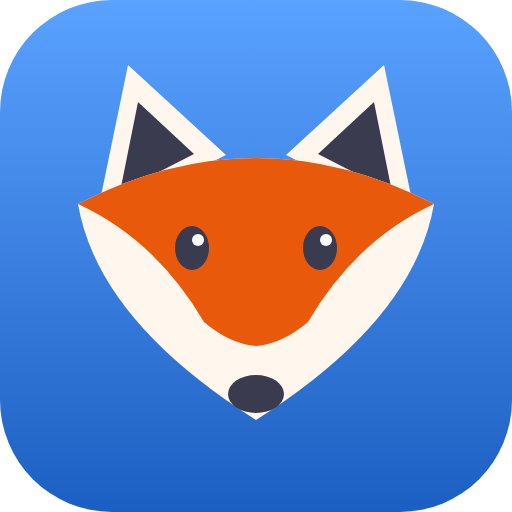
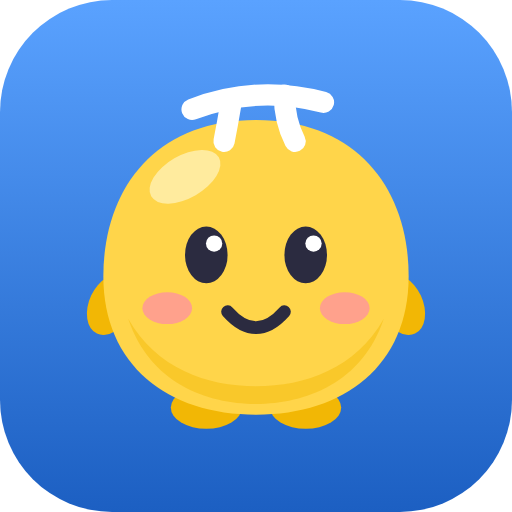
Nieuwe mascotte Pi in plaats van de vos
- Pi zelf getekend in SVG, met drie uitdrukkingen: blij, juichend, oei
- Pi reageert in de les op juiste en foute antwoorden en knippert
- App-icoon met Pi op blauwe achtergrond
- Versie 0.3.0, zodat de offline cache ververst

Claude-Session: https://claude.ai/code/session_01JKfSBsTbStSJGwwEaag5tf

diff --git a/js/app.js b/js/app.js
@@ -3,8 +3,9 @@ import * as store from './store.js';
 import { state } from './store.js';
 import * as E from './engine.js';
 import { sfx, unlockAudio } from './sound.js';
+import { mascot, piSvg } from './mascot.js';
 
-const VERSION = '0.2.0';
+const VERSION = '0.3.0';
 const BLITZ_SECONDS = 60;
 
 const app = document.getElementById('app');
@@ -47,9 +48,9 @@ function render() {
 function welcomeView() {
   return `
   <div class="welcome">
-    <div class="mascot huge bounce">🦊</div>
+    ${mascot('cheer', 'huge bounce')}
     <h1>Hoi Ma 'Nilla!</h1>
-    <p>Ik ben je rekenvos. Welkom bij Mathsapp! Elke dag een paar rondes van twee minuten en je tafels zitten er binnenkort ingebakken.</p>
+    <p>Ik ben Pi, je rekenmaatje. Welkom bij Mathsapp! Elke dag een paar rondes van twee minuten en je tafels zitten er binnenkort ingebakken.</p>
     <p class="muted">Ken je je tafels al een beetje? Doe dan de niveautest, dan sla je over wat je al kent.</p>
     <div class="stack">
       <button class="btn primary c-blue" data-action="welcome-start">Begin bij het begin</button>
@@ -63,7 +64,7 @@ function topbar() {
   const activeToday = state.lastDay === store.today();
   return `
   <header class="topbar">
-    <div class="brand"><span class="mascot">🦊</span><span>Mathsapp</span></div>
+    <div class="brand">${mascot()}<span>Mathsapp</span></div>
     <div class="top-stats">
       <span class="pill streak ${activeToday ? 'on' : ''}" title="Streak">🔥 ${streak}</span>
       <span class="pill xp" title="XP">⚡ ${state.xp}</span>
@@ -141,7 +142,7 @@ function pathView() {
             <button class="node ${status} ${node.review ? 'review' : ''}" style="--p:${pct}" data-action="node" data-id="${node.id}" aria-label="${node.title}">
               <span class="node-face">${status === 'locked' ? '🔒' : node.icon}</span>
             </button>
-            ${status === 'current' ? `<div class="node-mascot" style="--side:${x > 0 ? -1 : 1}">🦊</div>` : ''}
+            ${status === 'current' ? `<div class="node-mascot" style="--side:${x > 0 ? -1 : 1}">${piSvg()}</div>` : ''}
           </div>`;
         }).join('')}
       </div>
@@ -386,11 +387,11 @@ function renderLesson() {
       <header class="lesson-top"><button class="icon-btn" data-action="quit" aria-label="Stoppen">✕</button></header>
       <div class="intro">
         ${L.intro === 'blitz' ? `
-          <div class="mascot huge bounce">⚡</div>
+          ${mascot('cheer', 'huge bounce')}
           <h1>Blitz!</h1>
           <p>${BLITZ_SECONDS} seconden. Zoveel mogelijk juiste antwoorden. Een fout kost je enkel tijd.</p>
           <p class="muted">Je record: <b>${state.blitzBest}</b></p>`
-        : `<div class="mascot huge">🦊</div><p class="intro-lead">Eerst een trucje!</p>${tipCard(L.intro)}`}
+        : `${mascot('happy', 'huge')}<p class="intro-lead">Eerst een trucje!</p>${tipCard(L.intro)}`}
       </div>
       <div class="answer-area"><button class="btn primary c-${color}" data-action="intro-ok">${L.intro === 'blitz' ? 'Start!' : 'Begrepen, start!'}</button></div>
     </div>`;
@@ -425,7 +426,7 @@ function renderLesson() {
       ${top}
     </header>
     <div class="lesson-body">
-      <div class="mascot-row"><span class="mascot">🦊</span><div class="bubble">${label}</div></div>
+      <div class="mascot-row">${mascot()}<div class="bubble">${label}</div></div>
       <div class="question pop">${q.tokens.map(tokenHtml).join('')}</div>
     </div>
     <div class="answer-area">${answer}</div>
@@ -537,6 +538,8 @@ function markChoice(q, value, correct) {
 }
 
 function showFeedback(ok, q, fast) {
+  const pi = app.querySelector('.mascot-row .mascot');
+  if (pi) pi.innerHTML = piSvg(ok ? 'cheer' : 'oops');
   const fb = document.getElementById('feedback');
   if (!fb) return;
   if (ok) {
@@ -686,7 +689,7 @@ function resultView() {
   const goal = state.settings.dailyGoal;
   return `
   <div class="result">
-    <div class="mascot huge ${r.celebrate ? 'bounce' : ''}">🦊</div>
+    ${mascot(r.celebrate || r.mode !== 'jump' ? 'cheer' : 'oops', `huge ${r.celebrate ? 'bounce' : ''}`)}
     <h1>${r.title}</h1>
     <p>${r.sub}</p>
     <div class="tiles">${r.tiles.map(([b, s]) => `<div class="tile"><b>${b}</b><span>${s}</span></div>`).join('')}</div>

diff --git a/js/mascot.js b/js/mascot.js
@@ -1,0 +1,82 @@
+// Pi, de mascotte. Getekend in SVG zodat hij er op elke gsm hetzelfde uitziet
+// en kan reageren: 'happy' (standaard), 'cheer' (juichen) en 'oops' (fout).
+
+const INK = '#2B2B40';
+const BODY = '#FFD54A';
+const SHADE = '#F2B705';
+const CHEEK = '#FF8FA3';
+const PI = '#2F80ED';
+
+const eyes = {
+  happy: `
+    <g class="pi-eyes">
+      <ellipse cx="46" cy="62" rx="6" ry="8" fill="${INK}"/>
+      <ellipse cx="74" cy="62" rx="6" ry="8" fill="${INK}"/>
+      <circle cx="48.2" cy="58.8" r="2.3" fill="#fff"/>
+      <circle cx="76.2" cy="58.8" r="2.3" fill="#fff"/>
+    </g>`,
+  cheer: `
+    <path d="M39 64 Q46 54 53 64" stroke="${INK}" stroke-width="4" fill="none" stroke-linecap="round"/>
+    <path d="M67 64 Q74 54 81 64" stroke="${INK}" stroke-width="4" fill="none" stroke-linecap="round"/>`,
+  oops: `
+    <path d="M39 49 Q46 44 53 48" stroke="${INK}" stroke-width="3" fill="none" stroke-linecap="round"/>
+    <path d="M67 48 Q74 44 81 49" stroke="${INK}" stroke-width="3" fill="none" stroke-linecap="round"/>
+    <circle cx="46" cy="62" r="7.5" fill="#fff" stroke="${INK}" stroke-width="2.5"/>
+    <circle cx="74" cy="62" r="7.5" fill="#fff" stroke="${INK}" stroke-width="2.5"/>
+    <circle cx="46" cy="63" r="3.6" fill="${INK}"/>
+    <circle cx="74" cy="63" r="3.6" fill="${INK}"/>`,
+};
+
+const mouth = {
+  happy: `<path d="M52 78 Q60 87 68 78" stroke="${INK}" stroke-width="3.6" fill="none" stroke-linecap="round"/>`,
+  cheer: `
+    <path d="M47 75 Q60 98 73 75 Z" fill="${INK}" stroke="${INK}" stroke-width="2" stroke-linejoin="round"/>
+    <path d="M53 86 Q60 80 67 86 Q60 93 53 86 Z" fill="${CHEEK}"/>`,
+  oops: `<ellipse cx="60" cy="83" rx="4.8" ry="5.8" fill="${INK}"/>`,
+};
+
+const arms = {
+  happy: `
+    <ellipse cx="19" cy="76" rx="6" ry="9" transform="rotate(25 19 76)" fill="${SHADE}"/>
+    <ellipse cx="101" cy="76" rx="6" ry="9" transform="rotate(-25 101 76)" fill="${SHADE}"/>`,
+  cheer: `
+    <ellipse cx="17" cy="48" rx="6" ry="10" transform="rotate(-30 17 48)" fill="${SHADE}"/>
+    <ellipse cx="103" cy="48" rx="6" ry="10" transform="rotate(30 103 48)" fill="${SHADE}"/>`,
+  oops: `
+    <ellipse cx="20" cy="70" rx="6" ry="9" transform="rotate(40 20 70)" fill="${SHADE}"/>
+    <ellipse cx="100" cy="70" rx="6" ry="9" transform="rotate(-40 100 70)" fill="${SHADE}"/>`,
+};
+
+const extras = {
+  happy: '',
+  cheer: `
+    <path d="M10 22 l2.5 6 6 2.5 -6 2.5 -2.5 6 -2.5 -6 -6 -2.5 6 -2.5 z" fill="${BODY}" stroke="${SHADE}" stroke-width="1.5"/>
+    <path d="M108 14 l2 4.5 4.5 2 -4.5 2 -2 4.5 -2 -4.5 -4.5 -2 4.5 -2 z" fill="${PI}"/>
+    <circle cx="104" cy="96" r="3" fill="${CHEEK}"/>`,
+  oops: `<path d="M95 38 Q101 47 95 51 Q89 47 95 38 Z" fill="#8FD3FF" stroke="#4BA8E8" stroke-width="1.5"/>`,
+};
+
+export function piSvg(mood = 'happy') {
+  const m = eyes[mood] ? mood : 'happy';
+  return `<svg class="pi pi-${m}" viewBox="0 0 120 120" width="1em" height="1em" aria-hidden="true">
+    <ellipse cx="60" cy="113" rx="30" ry="4" fill="rgba(0,0,0,0.12)"/>
+    <ellipse cx="46" cy="105" rx="10" ry="6" fill="${SHADE}"/>
+    <ellipse cx="74" cy="105" rx="10" ry="6" fill="${SHADE}"/>
+    ${arms[m]}
+    <path d="M60 24 C89 24 103 44 103 68 C103 93 85 107 60 107 C35 107 17 93 17 68 C17 44 31 24 60 24 Z" fill="${BODY}"/>
+    <path d="M24 80 C30 98 46 104 60 104 C74 104 90 98 96 80 C88 94 74 99 60 99 C46 99 32 94 24 80 Z" fill="${SHADE}" opacity="0.45"/>
+    <ellipse cx="40" cy="40" rx="11" ry="6" transform="rotate(-30 40 40)" fill="#FFF0B3" opacity="0.8"/>
+    <path d="M42 21 Q60 14 79 19" stroke="${PI}" stroke-width="6" fill="none" stroke-linecap="round"/>
+    <path d="M53 19 Q52 25 51 30" stroke="${PI}" stroke-width="6" fill="none" stroke-linecap="round"/>
+    <path d="M68 17 Q68 24 71 30" stroke="${PI}" stroke-width="6" fill="none" stroke-linecap="round"/>
+    <ellipse cx="35" cy="77" rx="7" ry="4.5" fill="${CHEEK}" opacity="0.75"/>
+    <ellipse cx="85" cy="77" rx="7" ry="4.5" fill="${CHEEK}" opacity="0.75"/>
+    ${eyes[m]}
+    ${mouth[m]}
+    ${extras[m]}
+  </svg>`;
+}
+
+export function mascot(mood = 'happy', cls = '') {
+  return `<span class="mascot ${cls}">${piSvg(mood)}</span>`;
+}

diff --git a/css/style.css b/css/style.css
@@ -78,8 +78,11 @@ p { line-height: 1.45; }
 .icon-btn:active { background: rgba(0, 0, 0, 0.06); }
 
 /* ---------- Mascotte ---------- */
-.mascot { font-size: 1.6rem; display: inline-block; }
-.mascot.huge { font-size: 5.5rem; line-height: 1; }
+.mascot { font-size: 1.8rem; display: inline-block; line-height: 0; }
+.mascot.huge { font-size: 7.5rem; }
+.pi { display: block; overflow: visible; }
+.pi-eyes { transform-box: fill-box; transform-origin: center; animation: blink 4.5s infinite; }
+@keyframes blink { 0%, 93%, 100% { transform: scaleY(1); } 96% { transform: scaleY(0.1); } }
 .bounce { animation: bounce 1.6s ease-in-out infinite; }
 @keyframes bounce { 0%, 100% { transform: translateY(0) rotate(-3deg); } 50% { transform: translateY(-12px) rotate(3deg); } }
 
@@ -202,7 +205,7 @@ p { line-height: 1.45; }
   border: 8px solid transparent; border-top-color: var(--card);
 }
 @keyframes float { 0%, 100% { transform: translate(-50%, 0); } 50% { transform: translate(-50%, -6px); } }
-.node-mascot { position: absolute; top: 50%; left: 50%; font-size: 2.6rem; transform: translate(calc(-50% + var(--side) * 92px), -50%); }
+.node-mascot { position: absolute; top: 50%; left: 50%; font-size: 3.2rem; line-height: 0; transform: translate(calc(-50% + var(--side) * 92px), -50%); }
 .path-end { height: 40px; }
 
 /* ---------- Bottom sheet ---------- */
@@ -294,7 +297,7 @@ p { line-height: 1.45; }
 
 .lesson-body { flex: 1; display: flex; flex-direction: column; justify-content: center; padding: 10px 20px; gap: 26px; }
 .mascot-row { display: flex; align-items: center; gap: 10px; }
-.mascot-row .mascot { font-size: 2.6rem; }
+.mascot-row .mascot { font-size: 3.4rem; }
 .bubble { position: relative; background: var(--card); border: 2px solid var(--line); border-radius: 14px; padding: 8px 14px; font-weight: 800; }
 .bubble::before { content: ''; position: absolute; left: -9px; top: 50%; transform: translateY(-50%); border: 8px solid transparent; border-right-color: var(--line); border-left: 0; }
 .question {

diff --git a/sw.js b/sw.js
@@ -1,6 +1,6 @@
 // Service worker: bewaart de hele app op de gsm zodat ze offline werkt.
 // Verhoog VERSION bij elke wijziging, dan haalt de app de nieuwe bestanden op.
-const VERSION = 'mathsapp-0.2.0';
+const VERSION = 'mathsapp-0.3.0';
 const FILES = [
   './',
   'index.html',
@@ -11,6 +11,7 @@ const FILES = [
   'js/engine.js',
   'js/store.js',
   'js/sound.js',
+  'js/mascot.js',
   'fonts/nunito-latin.woff2',
   'icons/icon.svg',
   'icons/icon-192.png',

diff --git a/README.md b/README.md
@@ -1,4 +1,4 @@
-# 🦊 Mathsapp
+# Mathsapp
 
 Een persoonlijke rekenapp in Duolingo-stijl: tafels, delingen en hoofdrekenen,
 in rondes van twee minuten. Werkt offline en installeer je op je Android-gsm
@@ -18,7 +18,7 @@ als een gewone app.
 
 Daarna start je Mathsapp gewoon vanaf je startscherm, ook zonder internet.
 
-## Wat zit erin (versie 0.2)
+## Wat zit erin (versie 0.3)
 
 - **Leerpad met 7 units:** tafels van 1 tot 12, delen door 2 tot 12, en een
   eindunit met alles door elkaar.
